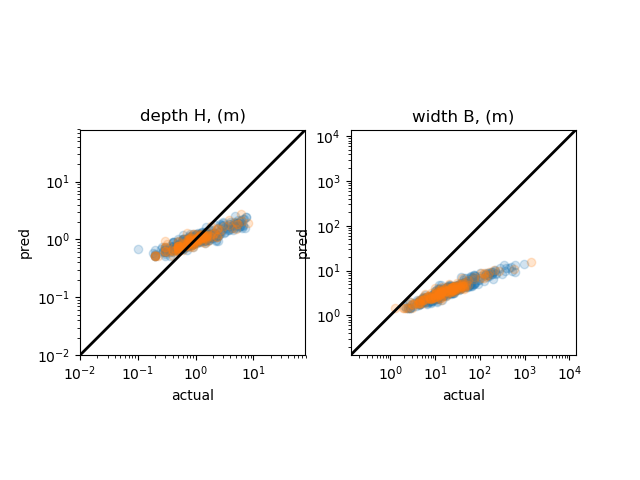
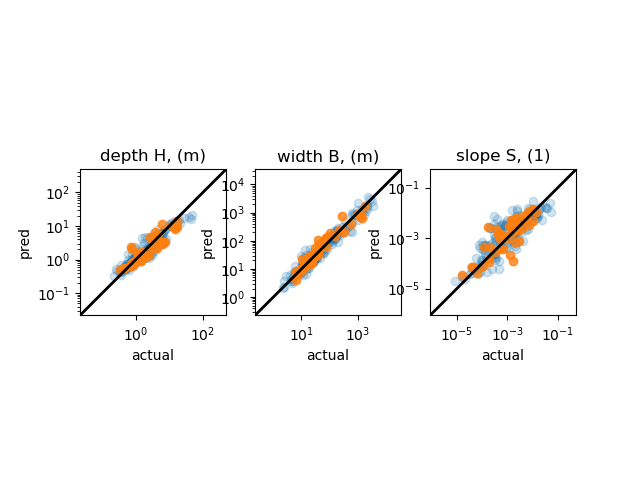
fix both models with 10^ rather than e^

diff --git a/channel_geom_nn_QDtoHBS.py b/channel_geom_nn_QDtoHBS.py
@@ -7,8 +7,9 @@ from sklearn.preprocessing import MinMaxScaler
 import tensorflow as tf
 
 # read the data
-df = pd.read_csv('data/mcelroy_dataclean.csv') # read data set using pandas
+# df = pd.read_csv('data/mcelroy_dataclean.csv') # read data set using pandas
 # df = pd.read_csv('data/wilkerson_dataclean.csv') # read data set using pandas
+df = pd.read_csv('data/ShieldsJHRData.csv') # read data set using pandas
 # df = pd.read_csv('data/combined.csv') # read data set using pandas
 # df = pd.read_csv('data/combined_modified.csv') # read data set using pandas
 # df = pd.read_csv('data/combined_modified_cut.csv') # read data set using pandas
@@ -18,7 +19,7 @@ print('Data summary:\n')
 print(df.describe(), '\n\n') # Overview of dataset
 
 # subset for train and test and rescale all values
-df_train, df_test = train_test_split(df, test_size=0.30)
+df_train, df_test = train_test_split(df, test_size=0.20)
 
 # we want to predict the H and B given Qbf, S, D50
 # y is output and x is input features
@@ -27,42 +28,42 @@ df_train, df_test = train_test_split(df, test_size=0.30)
 scaler = MinMaxScaler() # For normalizing dataset
 
 # min max normalization
-# X_train = scaler.fit_transform(df_train.drop(['Bbf.m', 'Hbf.m'], axis=1).values)
-# y_train = scaler.fit_transform(df_train[['Bbf.m', 'Hbf.m']].values)
-# X_test = scaler.fit_transform(df_test.drop(['Bbf.m', 'Hbf.m'], axis=1).values)
-# y_test = scaler.fit_transform(df_test[['Bbf.m', 'Hbf.m']].values)
+# X_train = scaler.fit_transform(df_train.drop(['Bbf.m', 'Hbf.m', 'S'], axis=1).values)
+# y_train = scaler.fit_transform(df_train[['Bbf.m', 'Hbf.m', 'S']].values)
+# X_test = scaler.fit_transform(df_test.drop(['Bbf.m', 'Hbf.m', 'S'], axis=1).values)
+# y_test = scaler.fit_transform(df_test[['Bbf.m', 'Hbf.m', 'S']].values)
 # logged = False
 # normed = True
 
 # min max log(x) normalization
-# X_train = scaler.fit_transform(np.log10(df_train.drop(['Bbf.m', 'Hbf.m'], axis=1).values))
-# y_train = scaler.fit_transform(np.log10(df_train[['Bbf.m', 'Hbf.m']].values))
-# X_test = scaler.fit_transform(np.log10(df_test.drop(['Bbf.m', 'Hbf.m'], axis=1).values))
-# y_test = scaler.fit_transform(np.log10(df_test[['Bbf.m', 'Hbf.m']].values))
+# X_train = scaler.fit_transform(np.log10(df_train.drop(['Bbf.m', 'Hbf.m', 'S'], axis=1).values))
+# y_train = scaler.fit_transform(np.log10(df_train[['Bbf.m', 'Hbf.m', 'S']].values))
+# X_test = scaler.fit_transform(np.log10(df_test.drop(['Bbf.m', 'Hbf.m', 'S'], axis=1).values))
+# y_test = scaler.fit_transform(np.log10(df_test[['Bbf.m', 'Hbf.m', 'S']].values))
 # logged = True
 # normed = True
 
 # log(x) normalization
-X_train = (np.log10(df_train.drop(['Bbf.m', 'Hbf.m'], axis=1).values))
-y_train = (np.log10(df_train[['Bbf.m', 'Hbf.m']].values))
-X_test = (np.log10(df_test.drop(['Bbf.m', 'Hbf.m'], axis=1).values))
-y_test = (np.log10(df_test[['Bbf.m', 'Hbf.m']].values))
+X_train = (np.log10(df_train.drop(['Bbf.m', 'Hbf.m', 'S'], axis=1).values))
+y_train = (np.log10(df_train[['Bbf.m', 'Hbf.m', 'S']].values))
+X_test = (np.log10(df_test.drop(['Bbf.m', 'Hbf.m', 'S'], axis=1).values))
+y_test = (np.log10(df_test[['Bbf.m', 'Hbf.m', 'S']].values))
 logged = True
 normed = False
 
 # min max log(x) normalization (whole dataset)
-# X_train = scaler.fit_transform(np.log10(df.drop(['Bbf.m', 'Hbf.m'], axis=1).values))
-# y_train = scaler.fit_transform(np.log10(df[['Bbf.m', 'Hbf.m']].values))
-# X_test = scaler.fit_transform(np.log10(df.drop(['Bbf.m', 'Hbf.m'], axis=1).values))
-# y_test = scaler.fit_transform(np.log10(df[['Bbf.m', 'Hbf.m']].values))
+# X_train = scaler.fit_transform(np.log10(df.drop(['Bbf.m', 'Hbf.m', 'S'], axis=1).values))
+# y_train = scaler.fit_transform(np.log10(df[['Bbf.m', 'Hbf.m', 'S']].values))
+# X_test = scaler.fit_transform(np.log10(df.drop(['Bbf.m', 'Hbf.m', 'S'], axis=1).values))
+# y_test = scaler.fit_transform(np.log10(df[['Bbf.m', 'Hbf.m', 'S']].values))
 # logged = True
 # normed = True
 
 # no normalization (be sure to turn off below for plotting)
-# X_train = (df_train.drop(['Bbf.m', 'Hbf.m'], axis=1).values)
-# y_train = (df_train[['Bbf.m', 'Hbf.m']].values)
-# X_test = (df_test.drop(['Bbf.m', 'Hbf.m'], axis=1).values)
-# y_test = (df_test[['Bbf.m', 'Hbf.m']].values)
+# X_train = (df_train.drop(['Bbf.m', 'Hbf.m', 'S'], axis=1).values)
+# y_train = (df_train[['Bbf.m', 'Hbf.m', 'S']].values)
+# X_test = (df_test.drop(['Bbf.m', 'Hbf.m', 'S'], axis=1).values)
+# y_test = (df_test[['Bbf.m', 'Hbf.m', 'S']].values)
 # logged = False
 # normed = False
 
@@ -81,9 +82,9 @@ def denormalize(df, norm_data):
     """
 
     if logged:
-        df = np.log10(df[['Bbf.m', 'Hbf.m']].values)
+        df = np.log10(df[['Bbf.m', 'Hbf.m', 'S']].values)
     else:
-        df = df[['Bbf.m', 'Hbf.m']].values
+        df = df[['Bbf.m', 'Hbf.m', 'S']].values
     
     if normed:
         scl = MinMaxScaler()
@@ -93,7 +94,6 @@ def denormalize(df, norm_data):
         new = norm_data
     
     if logged:
-        # expt = np.exp(new)
         expt = np.power(10, new)
         return expt
     else:
@@ -107,7 +107,7 @@ def nn_model(X_data, input_dim):
     Weights and biases are abberviated as W_1, W_2 and b_1, b_2 
     """
 
-    n_nodes = 3
+    n_nodes = 5
 
     # layer 1 multiplying and adding bias then activation function
     W_1 = tf.Variable(tf.random_uniform([input_dim, n_nodes], dtype='float64'))
@@ -126,8 +126,8 @@ def nn_model(X_data, input_dim):
     # layer_2 = tf.nn.relu(layer_2)
 
     # output layer multiplying and adding bias then activation function
-    W_O = tf.Variable(tf.random_uniform([n_nodes, 2], dtype = 'float64')) # 2 because there are two outputs
-    b_O = tf.Variable(tf.zeros([2], dtype = 'float64'))
+    W_O = tf.Variable(tf.random_uniform([n_nodes, 3], dtype = 'float64')) # 2 because there are two outputs
+    b_O = tf.Variable(tf.zeros([3], dtype = 'float64'))
     output = tf.add(tf.matmul(layer_1, W_O), b_O)
     # output = tf.add(tf.matmul(layer_2, W_O), b_O)
 
@@ -144,8 +144,8 @@ loss = tf.losses.mean_squared_error(output, ys)
 
 # Gradinent Descent optimiztion just discussed above for updating weights and biases
 learning_rate = 0.01
-train = tf.train.GradientDescentOptimizer(learning_rate).minimize(loss)
-# train = tf.train.AdamOptimizer(learning_rate).minimize(loss)
+# train = tf.train.GradientDescentOptimizer(learning_rate).minimize(loss)
+train = tf.train.AdamOptimizer(learning_rate).minimize(loss)
 
 # some other initializations
 # correct_pred = tf.argmax(output, 1)
@@ -161,7 +161,7 @@ with tf.Session() as sess:
     writer = tf.summary.FileWriter("logs/graph", sess.graph)
 
     it = 0
-    n_epoch = 10
+    n_epoch = 4
     n_batch_per_epoch = int( np.floor(X_train.shape[0] / batch_size) )
     for i in range(n_epoch):
         for j in range(n_batch_per_epoch):
@@ -185,6 +185,8 @@ with tf.Session() as sess:
     pred_test = sess.run(output, feed_dict={xs:X_test})
     pred_train = sess.run(output, feed_dict={xs:X_train})
     
+    print(pred_train.shape)
+
     # denormalize data
     y_test = denormalize(df_test, y_test)
     pred_test = denormalize(df_test, pred_test)
@@ -201,9 +203,9 @@ with tf.Session() as sess:
     plt.legend(['train', 'test'], loc = 'best')
     fig1.savefig('figures/split.png')
 
-    fig2, ax2 = plt.subplots(nrows=1, ncols=2)
+    fig2, ax2 = plt.subplots(nrows=1, ncols=3)
     ax2[0].plot(df_train['Hbf.m'], pred_train[:,1], 'o', alpha=0.2)
-    ax2[0].plot(df_test['Hbf.m'], pred_test[:,1], 'o', alpha=0.2)
+    ax2[0].plot(df_test['Hbf.m'], pred_test[:,1], 'o', alpha=0.8)
     ax2[0].plot([df['Hbf.m'].min()/10, df['Hbf.m'].max()*10], [df['Hbf.m'].min()/10, df['Hbf.m'].max()*10], 'k-', lw=2)
     ax2[0].axis('square')
     ax2[0].set_title('depth H, (m)')
@@ -214,7 +216,7 @@ with tf.Session() as sess:
     ax2[0].set_xlim([df['Hbf.m'].min()/10, df['Hbf.m'].max()*10])
     ax2[0].set_ylim([df['Hbf.m'].min()/10, df['Hbf.m'].max()*10])
     ax2[1].plot(df_train['Bbf.m'], pred_train[:,0], 'o', alpha=0.2)
-    ax2[1].plot(df_test['Bbf.m'], pred_test[:,0], 'o', alpha=0.2)
+    ax2[1].plot(df_test['Bbf.m'], pred_test[:,0], 'o', alpha=0.8)
     ax2[1].plot([df['Bbf.m'].min()/10, df['Bbf.m'].max()*10], [df['Bbf.m'].min()/10, df['Bbf.m'].max()*10], 'k-', lw=2)
     ax2[1].axis('square')
     ax2[1].set_title('width B, (m)')
@@ -224,7 +226,19 @@ with tf.Session() as sess:
     ax2[1].set_ylabel('pred')
     ax2[1].set_xlim([df['Bbf.m'].min()/10, df['Bbf.m'].max()*10])
     ax2[1].set_ylim([df['Bbf.m'].min()/10, df['Bbf.m'].max()*10])
+    ax2[2].plot(df_train['S'], pred_train[:,2], 'o', alpha=0.2)
+    ax2[2].plot(df_test['S'], pred_test[:,2], 'o', alpha=0.8)
+    ax2[2].plot([df['S'].min()/10, df['S'].max()*10], [df['S'].min()/10, df['S'].max()*10], 'k-', lw=2)
+    ax2[2].axis('square')
+    ax2[2].set_title('slope S, (1)')
+    ax2[2].set_yscale('log')
+    ax2[2].set_xscale('log')
+    ax2[2].set_xlabel('actual')
+    ax2[2].set_ylabel('pred')
+    ax2[2].set_xlim([df['S'].min()/10, df['S'].max()*10])
+    ax2[2].set_ylim([df['S'].min()/10, df['S'].max()*10])
     fig2.savefig('figures/compare.png')
+
 
     fig3, ax3 = plt.subplots()
     ax3.plot(np.arange(len(c_train)) / n_batch_per_epoch, np.array(c_train))
